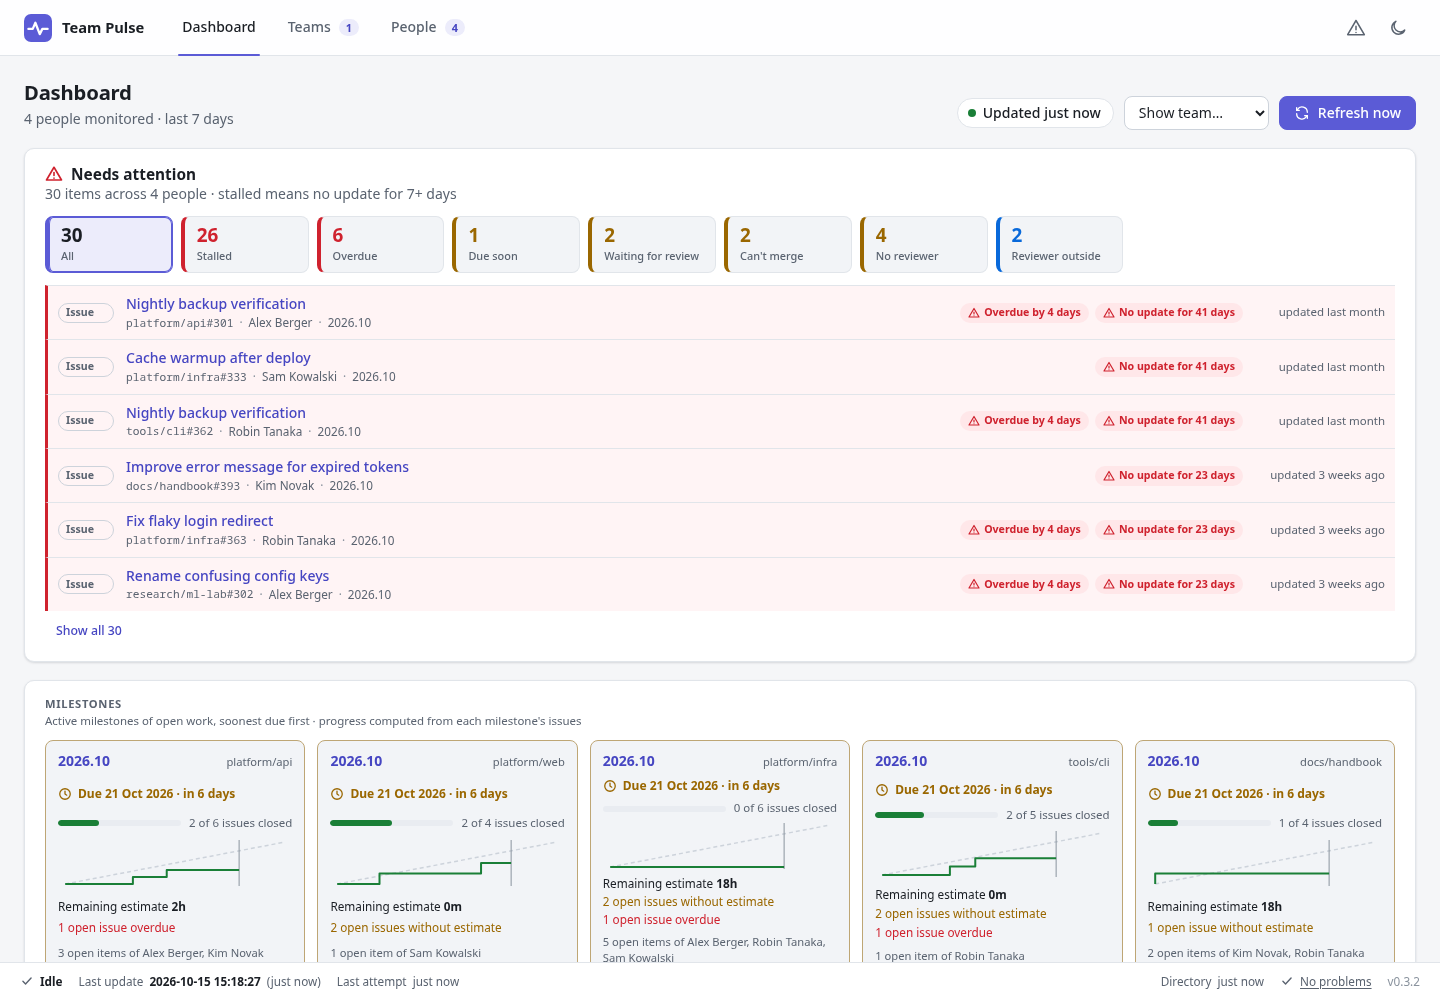
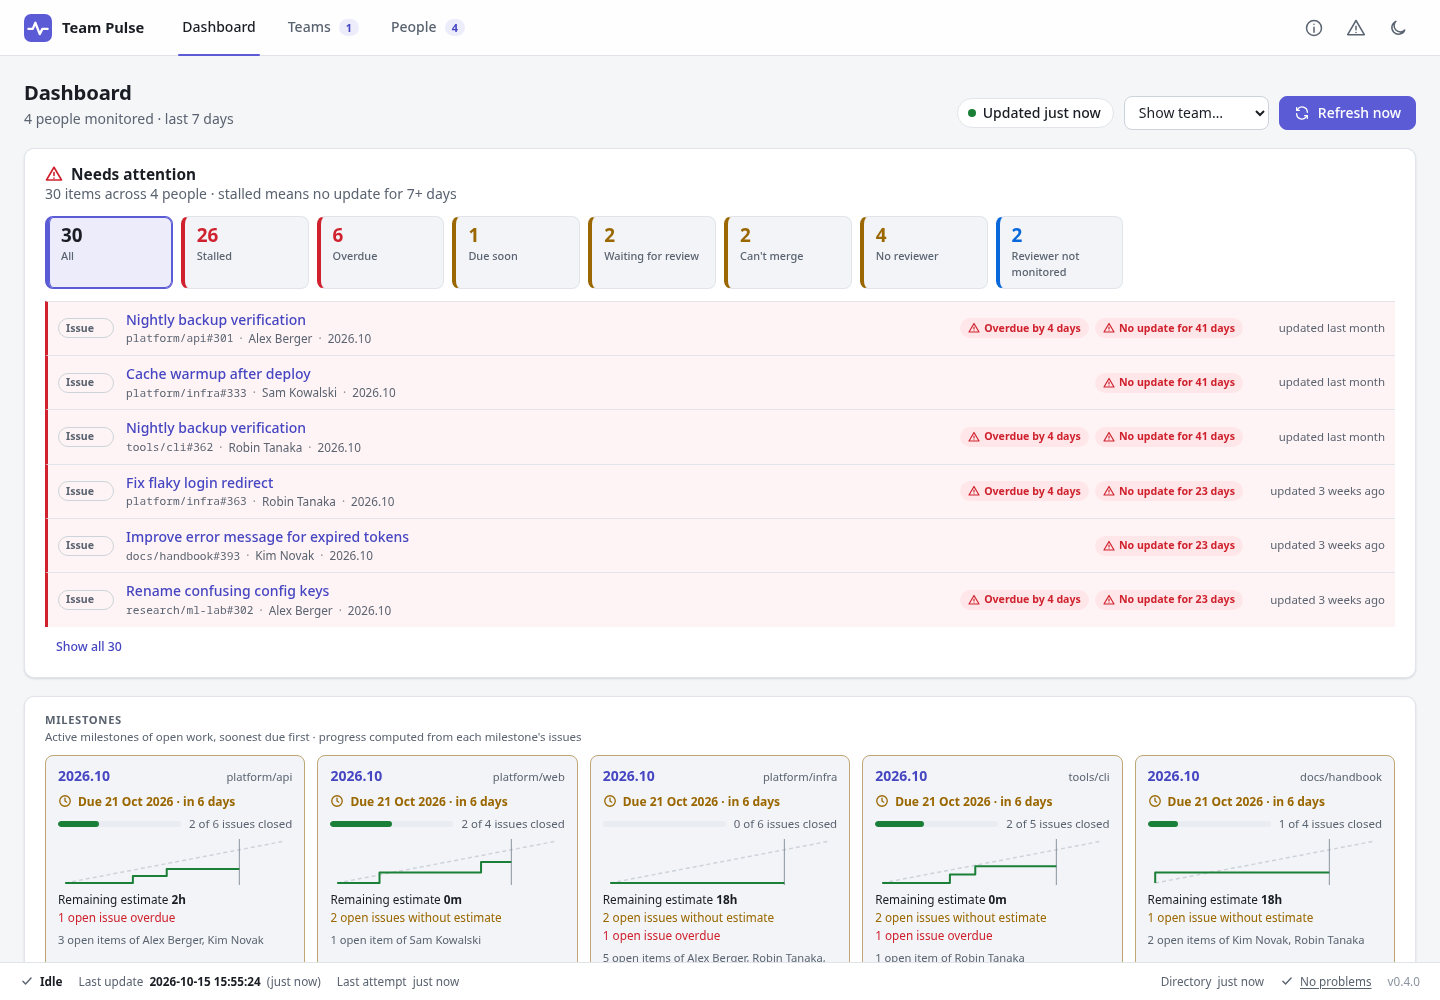
docs(readme): showcase the new features with fresh screenshots (attention, milestones, team report, editor, About)

diff --git a/src/gitlab_team_pulse/static/app.css b/src/gitlab_team_pulse/static/app.css
@@ -556,7 +556,7 @@ main { max-width: 1480px; margin: 0 auto; padding: 24px; outline: none; }
   box-shadow: var(--shadow); padding: 16px 20px; margin-bottom: 18px;
 }
 .milestone-grid { display: grid; grid-template-columns: repeat(auto-fill, minmax(250px, 1fr)); gap: 12px; }
-.milestone { border: 1px solid var(--border); border-radius: 8px; padding: 10px 12px; display: grid; gap: 6px; background: var(--surface-2); }
+.milestone { border: 1px solid var(--border); border-radius: 8px; padding: 10px 12px; display: grid; gap: 6px; align-content: start; background: var(--surface-2); }
 .milestone.is-overdue { border-color: color-mix(in srgb, var(--err) 50%, var(--border)); }
 .milestone.is-soon { border-color: color-mix(in srgb, var(--warn) 50%, var(--border)); }
 .milestone-title { display: flex; justify-content: space-between; gap: 8px; align-items: baseline; flex-wrap: wrap; }

diff --git a/tools/screenshots.py b/tools/screenshots.py
@@ -63,6 +63,11 @@ def main() -> None:
                     page.wait_for_timeout(500)
                     if theme == "light":
                         page.screenshot(path=OUT / "attention.png")
+                        # The fixed status bar would overlap an element screenshot.
+                        bar = "document.getElementById('statusbar').style.visibility"
+                        page.evaluate(f"{bar} = 'hidden'")
+                        page.locator("section.milestones").screenshot(path=OUT / "milestones.png")
+                        page.evaluate(f"{bar} = ''")
                     # The person cards sit below the attention strip and the milestones.
                     page.evaluate(
                         "window.scrollTo(0, document.querySelector('.cards').offsetTop - 70)"
@@ -77,6 +82,17 @@ def main() -> None:
                 page.wait_for_selector(".kpis")
                 page.wait_for_timeout(500)
                 page.screenshot(path=OUT / "teams.png")
+                page.get_by_role("button", name="Edit").click()
+                page.wait_for_selector(".member-option")
+                page.wait_for_timeout(300)
+                page.set_viewport_size({"width": 1440, "height": 900})
+                page.screenshot(path=OUT / "team-editor.png")
+                page.keyboard.press("Escape")
+                page.click("#open-about")
+                page.wait_for_selector("#about .about-deps tbody tr")
+                page.wait_for_timeout(300)
+                page.screenshot(path=OUT / "about.png")
+                page.keyboard.press("Escape")
                 page = browser.new_page(
                     viewport={"width": 1440, "height": 900}, color_scheme="light"
                 )

diff --git a/README.md b/README.md
@@ -27,19 +27,39 @@ All of this works on GitLab Free (see [steering signals](docs/features/steering-
 
 ![Dashboard (light)](docs/media/dashboard-light.png)
 
-| Needs attention and milestones | Team report |
+### New in 0.4: steering signals and teams
+
+**Needs attention.** One list across everyone on the dashboard: stalled work (no update for a
+week means something is wrong), overdue and due-soon items, MRs waiting for review, MRs that
+can't be merged and MRs without a reviewer. Click a tile to filter.
+
+![Needs attention](docs/media/attention.png)
+
+**Milestones.** Progress, remaining estimate, unestimated and overdue issues and a burn-up
+line for the milestones your people work in. GitLab Free has no burndown API, so Team Pulse
+computes it from each milestone's issues.
+
+![Milestones](docs/media/milestones.png)
+
+| Team report: totals vs the previous period, share of effort, knowledge spread | Team editor: members and project scope |
 | --- | --- |
-| ![Needs attention and milestones](docs/media/attention.png) | ![Team report](docs/media/teams.png) |
-| Dark mode | People view |
-| ![Dashboard (dark)](docs/media/dashboard-dark.png) | ![People view](docs/media/people.png) |
+| ![Team report](docs/media/teams.png) | ![Team editor](docs/media/team-editor.png) |
+
+| About: version, author, license and dependencies | Dark mode |
+| --- | --- |
+| ![About dialog](docs/media/about.png) | ![Dashboard (dark)](docs/media/dashboard-dark.png) |
+
+### Also in the box
+
+| People view | Outage handling |
+| --- | --- |
+| ![People view](docs/media/people.png) | ![Outage with diagnostics](docs/media/outage-diagnostics.png) |
 | Contribution calendar (2D) | Contribution skyline (3D, rotate and zoom) |
 | ![Contribution calendar](docs/media/contributions-2d.png) | ![Contribution skyline](docs/media/contributions-3d.png) |
 
 When GitLab is unreachable, the dashboard keeps the last known good data, marks it with an
 icon and a text label (color is never the only signal), and explains the problem in the
-diagnostics drawer:
-
-![Outage with diagnostics](docs/media/outage-diagnostics.png)
+diagnostics drawer (screenshot above).
 
 ## What it does
 
@@ -85,6 +105,8 @@ diagnostics drawer:
 - **Low GitLab load**: detailed crawling only for selected users, project metadata only on
   demand, incremental activity sync, bounded concurrency, and retries with backoff and jitter.
   Authentication errors fail fast.
+- **About dialog**: version, author, license, source link and the runtime dependencies with
+  their versions and licenses, read from the installed package.
 - **Polished, dependency-free UI**: plain HTML, CSS and ES modules served by FastAPI, native
   SVG charts, no CDN, and no Node.js build. It has light and dark themes (kept for the browser
   session), keyboard support, and all data text stays selectable and copyable.
@@ -242,7 +264,7 @@ HTTP API: `GET /api/health`, `/api/status`, `/api/users`, `/api/dashboard`,
 `PATCH /api/users/{id}/selection`, `POST /api/refresh` (202 or 429 with `Retry-After`),
 `GET|POST /api/teams`, `PUT|DELETE /api/teams/{id}`, `POST /api/teams/{id}/apply`,
 `GET /api/teams/{id}/report?period=week|month|quarter&offset=N` and
-`GET /api/teams/{id}/digest`. Interactive docs are at `/api/docs`.
+`GET /api/teams/{id}/digest` and `GET /api/about`. Interactive docs are at `/api/docs`.
 
 Why and how GitLab's GraphQL API is used (timelogs and epics) and what it saves compared
 with REST is explained in [`docs/GRAPHQL.md`](docs/GRAPHQL.md).
